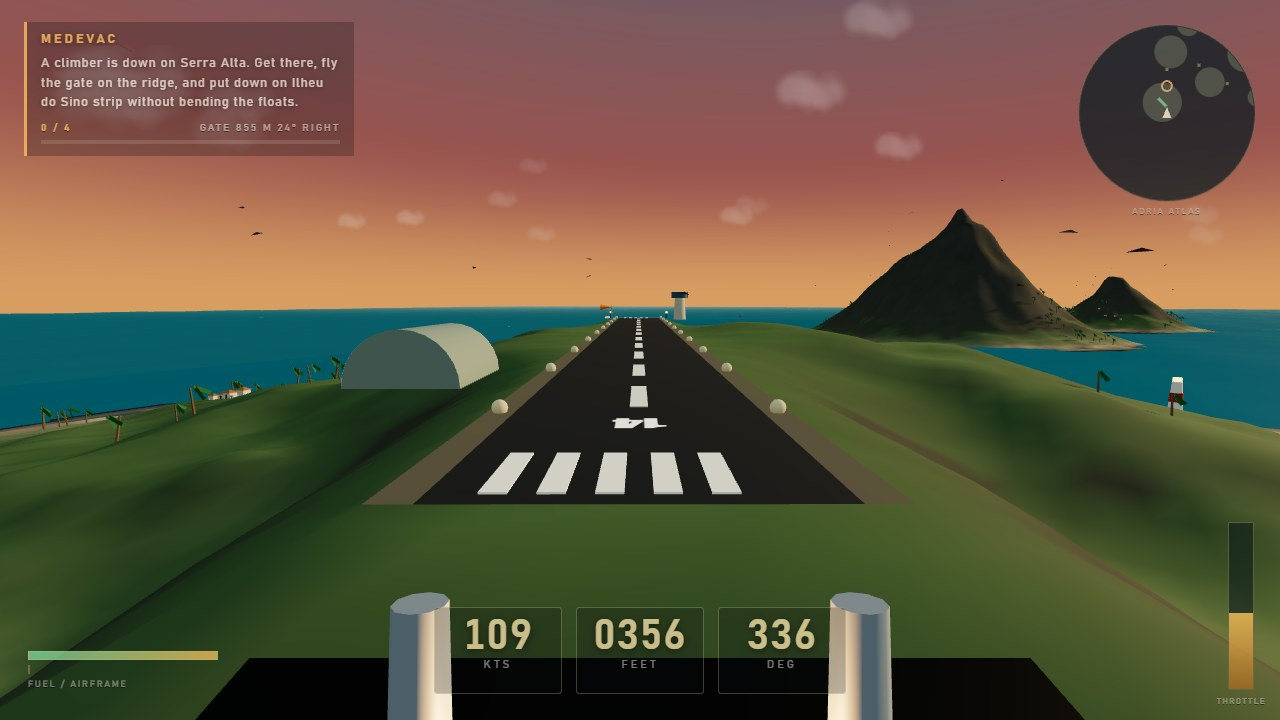
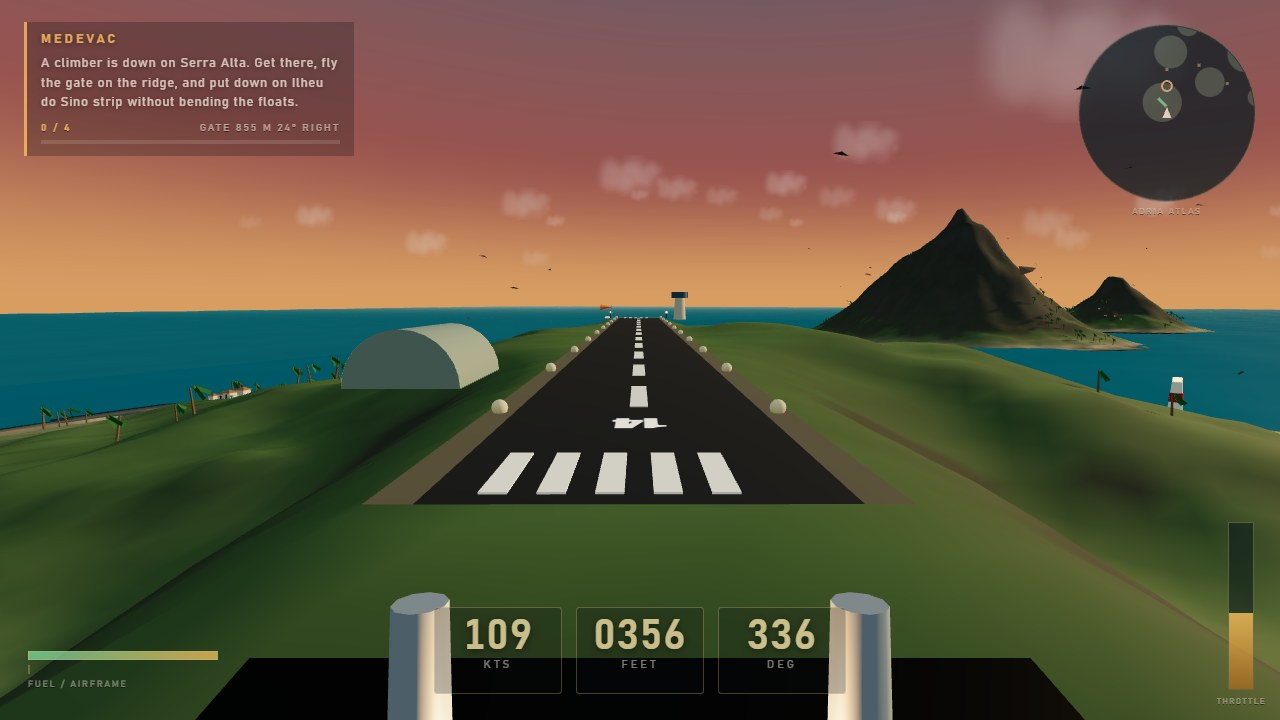
Zoom the still chase camera in; frame the cover on the island

diff --git a/game/src/shots.js b/game/src/shots.js
@@ -36,13 +36,13 @@ export const SHOTS = {
   cover: ({ course }) => {
     const gate = course?.gates[1] ?? course?.gates[0] ?? null;
     if (!gate) return { kind: 'courier' };
-    const from = behindGate(gate, 210, 44);
+    const from = behindGate(gate, 330, 118);
     // Slide the camera off the gate axis so the ring and the aircraft do not sit on top of
     // each other, and the shot reads as a diagonal composition.
     const normal = new THREE.Vector3(0, 0, 1).applyQuaternion(gate.ring.quaternion);
-    from.addScaledVector(new THREE.Vector3(normal.z, 0, -normal.x).normalize(), 22);
+    from.addScaledVector(new THREE.Vector3(normal.z, 0, -normal.x).normalize(), 38);
     const side = new THREE.Vector3(normal.z, 0, -normal.x).normalize();
-    const look = gate.position.clone().add(new THREE.Vector3(0, 26, 0)).addScaledVector(side, -78);
+    const look = gate.position.clone().add(new THREE.Vector3(0, 34, 0)).addScaledVector(side, -96);
     const pose = aim(from, look, { roll: -0.1, pitch: 0.02 });
     return { ...pose, speed: 79, throttle: 0.83, camera: 'chase', kind: 'courier', gate };
   },
@@ -122,12 +122,12 @@ export const SHOTS = {
     if (gate && best > 380) gate = null;
     const anchor = gate ? gate.position : BRIDGE.midpoint;
     const dir = (gate ? BRIDGE.midpoint.clone().sub(anchor) : axis.clone()).setY(0).normalize();
-    const pos = anchor.clone().addScaledVector(dir, gate ? -230 : -250).addScaledVector(across, 215);
-    pos.y = anchor.y + (gate ? -5 : 20);
-    const look = anchor.clone().addScaledVector(dir, gate ? 40 : 10).addScaledVector(across, 45);
+    const pos = anchor.clone().addScaledVector(dir, gate ? -230 : -250).addScaledVector(across, 258);
+    pos.y = anchor.y + (gate ? 4 : 26);
+    const look = anchor.clone().addScaledVector(dir, gate ? 40 : 10).addScaledVector(across, 72);
     look.y += gate ? 8 : 40;
     const pose = aim(pos, look, { roll: 0.09, pitch: -0.03 });
-    return { ...pose, speed: 84, throttle: 0.95, camera: 'chase', kind: 'courier', gate };
+    return { ...pose, speed: 84, throttle: 0.95, camera: 'chase', kind: 'courier', gate, zoom: 1.55 };
   },
 
   // Windward cliffs: the courier on the coast run, sea and rock below the wing.

diff --git a/game/src/render/cameras.js b/game/src/render/cameras.js
@@ -9,6 +9,12 @@ const up = new THREE.Vector3(0, 1, 0);
 export function createCameraRig(camera) {
   const rig = {
     mode: 'chase',
+    // A still frame can pull the chase camera in, so the aircraft reads as the subject instead of
+    // a speck in its own game.
+    zoom: 1,
+    // Height of the point the lens aims at, in metres above the hull. A still drops it, so the
+    // aircraft sits clear of the instrument panel instead of behind it.
+    lift: 1.5,
     shake: 0,
     smoothUp: up.clone(),
     desired: new THREE.Vector3(),
@@ -33,8 +39,8 @@ export function createCameraRig(camera) {
 
     rig.desired
       .copy(back)
-      .multiplyScalar(CAMERA.chaseBack + speedFactor * 4.4)
-      .add(new THREE.Vector3(0, CAMERA.chaseUp, 0))
+      .multiplyScalar((CAMERA.chaseBack + speedFactor * 4.4) / rig.zoom)
+      .add(new THREE.Vector3(0, CAMERA.chaseUp / rig.zoom, 0))
       .applyQuaternion(body.quaternion)
       .add(body.position);
 
@@ -46,7 +52,7 @@ export function createCameraRig(camera) {
     rig.smoothUp.lerp(up.clone().applyQuaternion(body.quaternion), 0.06);
     camera.up.copy(rig.smoothUp).lerp(up, 0.62).normalize();
 
-    rig.look.copy(body.position).add(new THREE.Vector3(0, 1.5, -18).applyQuaternion(body.quaternion));
+    rig.look.copy(body.position).add(new THREE.Vector3(0, rig.lift, -18).applyQuaternion(body.quaternion));
     camera.lookAt(rig.look);
 
     if (rig.shake > 0.001) {

diff --git a/game/src/main.js b/game/src/main.js
@@ -343,6 +343,11 @@ if (shot) {
   plane.speed = pose.speed;
   plane.setThrottle(pose.throttle);
   rig.mode = pose.camera;
+  // Stills pull the chase camera in: at play distance the courier is too small to be the subject.
+  if (pose.camera === 'chase') {
+    rig.zoom = pose.zoom ?? 1.8;
+    rig.lift = pose.lift ?? 0.3;
+  }
   // A still frame wants the furniture out of the sightline: bigger and lower in the cockpit view.
   if (pose.camera === 'cockpit') {
     cockpit.scale.setScalar(1.2);
